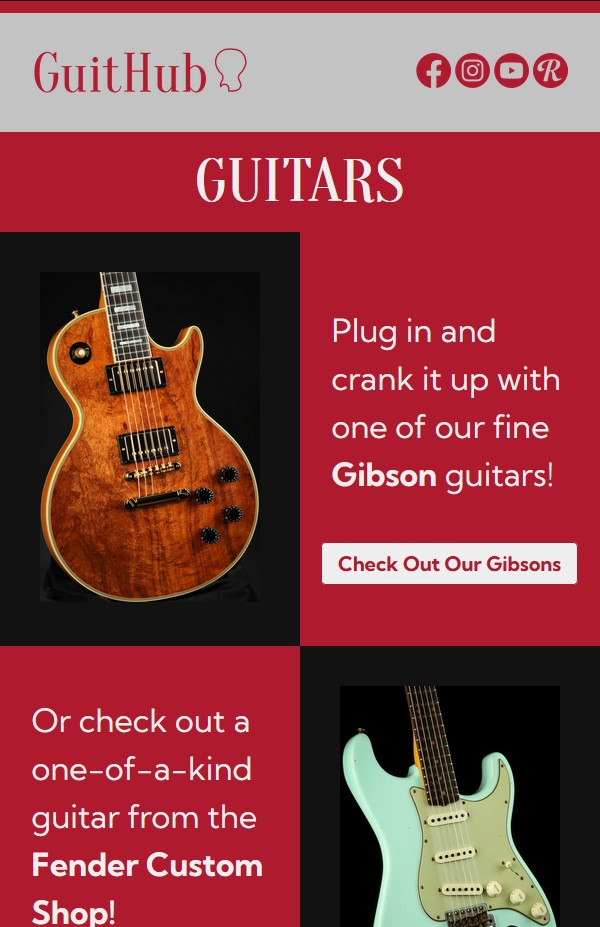
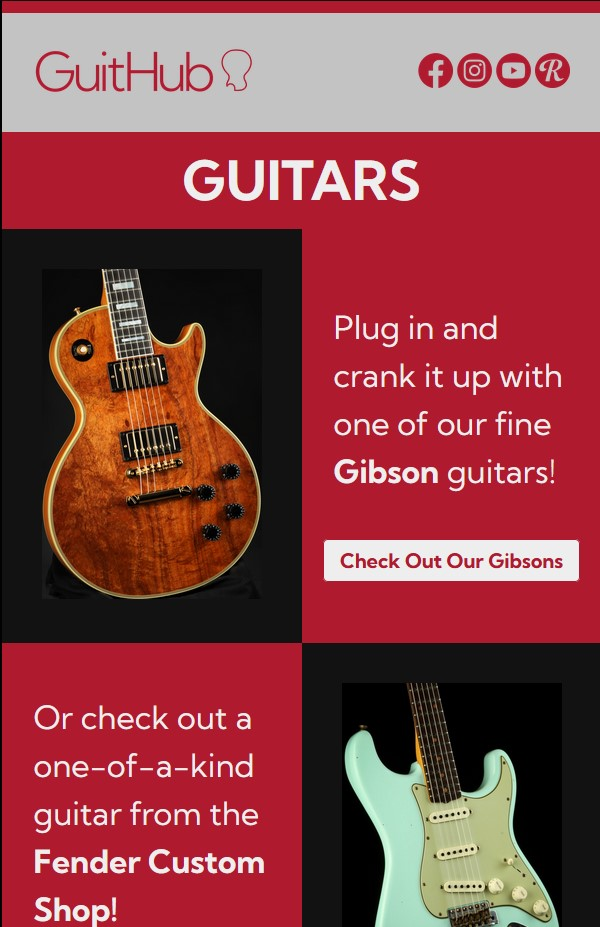
Replaced preview images, bug fix
Replaced work preview images after updating emails. Fixed a button in
the wrong position on the home page.

diff --git a/styles.css b/styles.css
@@ -268,7 +268,7 @@ button:hover {
          so last 3 rows have been removed */ 
     #bio-container-home {
         grid-template-columns: 9% 40% 3% 40% 9%;
-        grid-template-rows: repeat(5, auto);
+        grid-template-rows: repeat(6, auto);
         row-gap: 24px;
     }
 
@@ -281,23 +281,27 @@ button:hover {
         grid-area: 1 / 4 / span 2 / span 1;
         line-height: 1.3em;
     }
+    
     #my-work-home {
         font-size: 42px;
         grid-area: 3 / 2 / span 1 / span 3;
     }
+    #home-cta {
+        grid-area: 4 / 2 / span 1 / span 3;
+    }
     
     #work-image-home-one {
-        grid-area: 4 / 2 / span 1 / span 1;
+        grid-area: 5 / 2 / span 1 / span 1;
     }
 
     #work-image-home-two {
-        grid-area: 4 / 4 / span 1 / span 1;
+        grid-area: 5 / 4 / span 1 / span 1;
     }
     #work-image-home-one-github {
-        grid-area: 5 / 2 / span 1 / span 1;
+        grid-area: 6 / 2 / span 1 / span 1;
     }
     #work-image-home-two-github {
-        grid-area: 5 / 4 / span 1 / span 1;
+        grid-area: 6 / 4 / span 1 / span 1;
     }
 
     #mobile-menu-icon {
@@ -373,6 +377,11 @@ button:hover {
     #nav-bar-ul img {
         max-width: 34px;
         padding: 4px 24px;
+    }
+
+    #home-cta {
+        font-size: 20px;
+        padding: 12px 24px;
     }
 
     #bio-container-home #tall-portrait {
